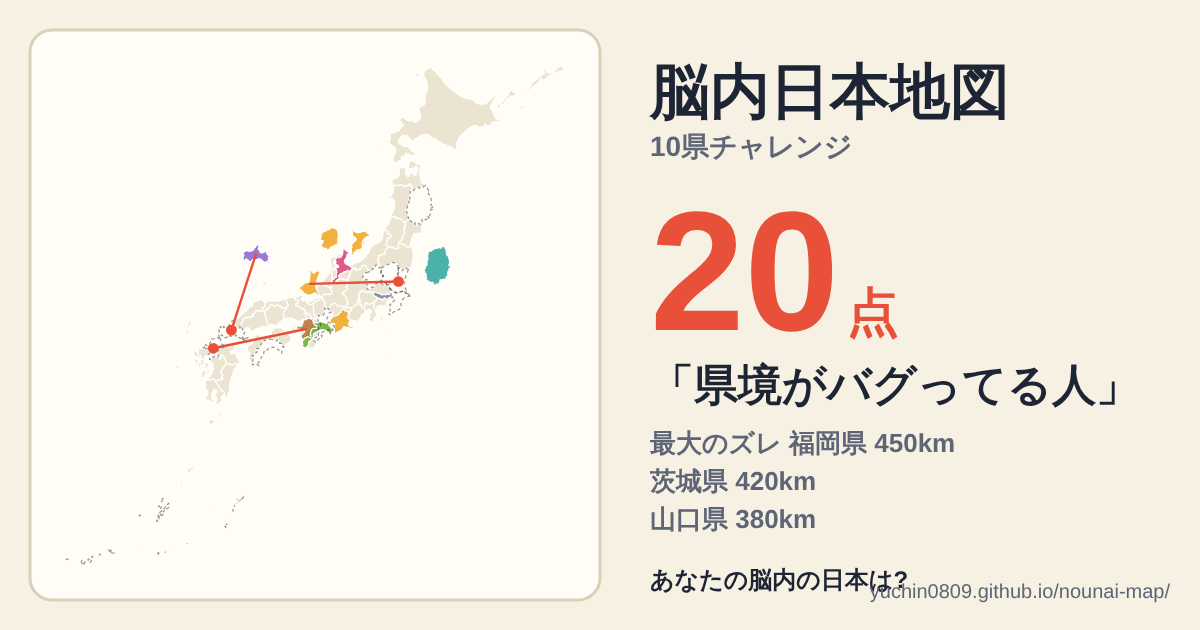
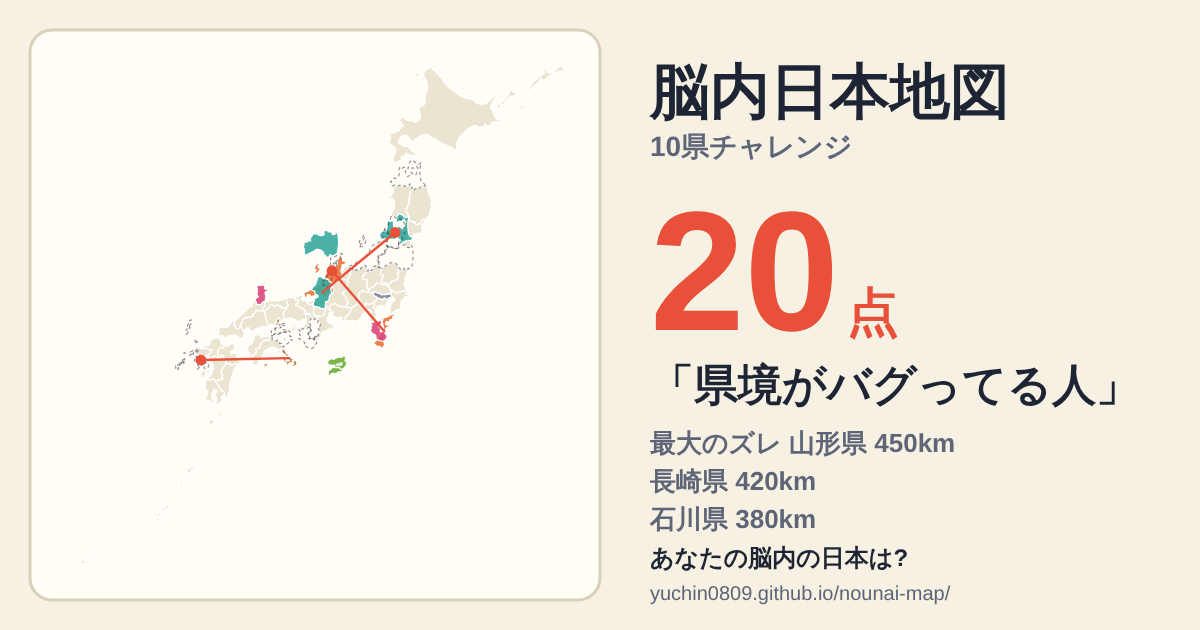
Add posting plan, demo clip and sample share card
Claude-Session: https://claude.ai/code/session_01Cttiaun2UXu5p75QyWXfmh

diff --git a/promo/POSTING_PLAN.md b/promo/POSTING_PLAN.md
@@ -1,0 +1,110 @@
+# 脳内日本地図: 最初のX投稿の計画
+
+フォロワー0人から始める前提です。調査で分かったこと(事例・公開されている推薦アルゴリズムのコード)に基づいています。
+数字や効果は「確認できたこと」と「推測」を分けて書きました。バズは再現できない部分があり、保証はできません。
+
+## 0. 先に読む注意
+
+- `nounai-map-demo.mp4` は、**台本どおりにゲームを自動操作して録画したもの**です。ゲームの画面は本物ですが、置き方と「20点」という結果は私が決めました。
+  - 投稿文では「**僕の結果は20点でした**」のように、実際の結果として書かないでください。この計画の投稿文は、その書き方を避けています。
+  - 自分たちで実際に遊んだ画面を録画した動画の方が、効果も安心感も高いと考えられます(撮り方は6を参照)。
+- 公開されている推薦アルゴリズムのコードの重みは、**一部が非公開**で、本番と一致するとは限りません。
+
+## 1. 方針(フォロワー0人版)
+
+1. **主役は動画**。3〜15秒で、最初の1〜2秒に「見たくなる絵」を出す。事例では、短い動画で仕組みとオチが一瞬で伝わるものが拡散していました。
+2. **主投稿にはリンクを入れない**。リンクは「返信(ツリー)」とプロフィールに置く。外部リンクが不利かどうかは、公式は「不利ではない」と言い、実測では反応が低い報告もあり、結論が出ていません。安全側に倒します。
+3. **「返信したくなる」問いで終える**。公開コードの既定の重みでは、返信・引用・共有が、いいねより桁違いに大きい値でした。
+4. **嫌われる動きをしない**。ミュート・ブロック・通報は、大きく減点されます。連投、宣伝リプの乱発、煽りは避けます。
+5. **48時間が勝負**。コードでは、48時間より古い投稿は推薦から外れます。
+
+## 2. 動画の絵コンテ(`nounai-map-demo.mp4`、約12秒、縦720×1280)
+
+| 時間 | 画面 | 字幕 |
+|---|---|---|
+| 0〜1秒 | 白紙の地図。1県目がピース置き場にある | 日本地図、**記憶だけ**で置ける? |
+| 1〜5秒 | 県をドラッグして置く。ルーペが出る。10県を次々に置く | 10県を、サクサク置く |
+| 5〜6秒 | 結果画面に切り替わり、点数が増える | 結果は… |
+| 6〜8秒 | 「20点」と称号が出る | **20点**「県境がバグってる人」 |
+| 8〜11秒 | 答え合わせ。県が正解の位置へ飛んでいく | 答え合わせ → こうなる |
+| 11〜12秒 | 最後の画面 | あなたは何点?プロフのリンクから遊べます |
+
+動画は音なしで成立するように作ってあります(字幕のみ)。
+
+## 3. 投稿セット(1日目)
+
+**主投稿(動画つき・リンクなし)**
+```
+日本地図、記憶だけで置ける?🗾
+都道府県のピースを、白紙の地図に置いていく無料ゲームを作りました。
+20点だと「県境がバグってる人」
+98点以上だと「伊能忠敬(本人)」
+何点出る?
+```
+
+**返信(ツリー。ここにリンク)**
+```
+遊べます👇(無料・登録なし・ブラウザだけ)
+https://yuchin0809.github.io/nounai-map/
+結果の画像に #脳内日本地図 をつけて教えてください
+```
+
+**固定ポスト**: 主投稿をプロフィールに固定する。
+
+### 別の投稿文(2日目以降・差し替え用)
+- **称号チャレンジ型**
+  ```
+  「伊能忠敬(本人)」になれる人いる?
+  都道府県を記憶だけで置くゲーム。98点以上で最高称号です🗾
+  ```
+- **高校生ストーリー型**
+  ```
+  高校生2人で作った無料ゲームです。
+  日本地図に、都道府県を記憶だけで置いていく🗾
+  あなたの脳内の日本は、どれくらいズレてる?
+  ```
+
+## 4. 投稿後の動き
+
+- **最初の1時間**: コメントすべてに返信する(返信の重みが大きい)。「何点でした?」と聞かれたら、返してよい。
+- 結果画像つきの返信・引用には、称号をいじって返す(例: 「それは県境がバグってますね」)。
+- **やらないこと**
+  - 同じ投稿を消して再投稿する。
+  - 他人の投稿に、宣伝リプを連投する。
+  - 「拡散希望」などの定番タグを大量に付ける(効果が小さいという記事しかなく、嫌われやすい)。
+  - 知らない人からのDMに返信する。「認証します」「収益化できます」系の勧誘DMは、詐欺の可能性が高い。
+- **時間帯**: 信頼できるデータは見つかりませんでした。数日分を試して、反応を見比べてください。
+- **見る数字**: インプレッション、プロフィールへのアクセス、リンクのクリック(Xの分析画面で見られる範囲)。
+
+## 5. 2日目以降の投稿ネタ
+
+1. **答え合わせだけの動画**(県が正解の位置へ飛んでいく所だけを切り出す、約3秒)
+2. **結果画像**(`result-card-sample.png` のようなもの)。実際に出た結果を使う
+3. **全47県チャレンジ**を、自分たちで遊んだ動画
+4. **「伊能忠敬(本人)」を目指す**投稿(98点以上。出せた人に反応してもらう)
+5. 反応が良かった返信を引用して、紹介する
+
+## 6. 自分で動画を撮るコツ
+
+- スマホの画面録画を使う。**始める前**に録画を開始し、トップ画面から「10県チャレンジ」を押すまでを入れる。
+- 指の動きが見えると分かりやすい(Androidは「画面タッチを表示」、iPhoneは画面収録で十分)。
+- **15秒以内**に収める。結果画面まで入れて、最後の2〜3秒に答え合わせを入れる。
+- 冒頭の1〜2秒に、字幕で問いかける(例: 「日本地図、記憶だけで置ける?」)。字幕は編集アプリ(CapCutなど)で入れる。
+- 音がなくても分かるようにする。
+
+## 7. 投稿前のチェックリスト
+
+- [ ] プロフィール: 名前・自己紹介・アイコン・ヘッダー・リンク(ゲームのURL)
+- [ ] 公開サイトが開く(`https://yuchin0809.github.io/nounai-map/`)。確認済み(2026-10-18)
+- [ ] プレビュー画像(`ogp.png`)が表示される。確認済み
+- [ ] スマホで通して遊ぶ(ドラッグ、ルーペ、拡大、答え合わせ、シェア)
+- [ ] 「画像つきで共有」と「Xに投稿する」を試す(結果の画像が保存できるか)
+- [ ] 動画が再生できる(MP4、約12秒)
+- [ ] 投稿文に、実際の結果として書いていない内容(「僕の結果は〜」)が入っていない
+- [ ] 住んでいる地域・学校名・顔などの個人情報が映っていない
+
+## 8. 素材
+
+- `nounai-map-demo.mp4` 動画(約12秒、縦720×1280、音なし)
+- `result-card-sample.png` シェア画像の見本(本番のアドレス入り)
+- `../brand/icon.png` / `../brand/header.png` プロフィール用の画像
